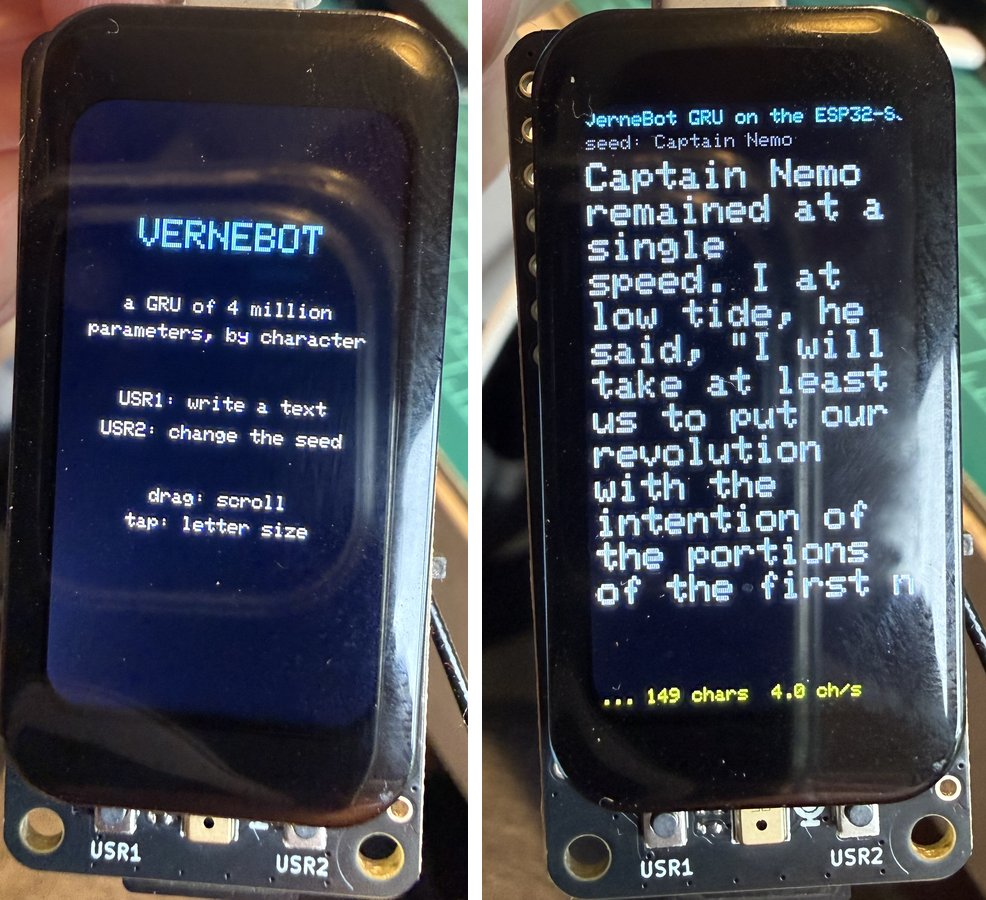
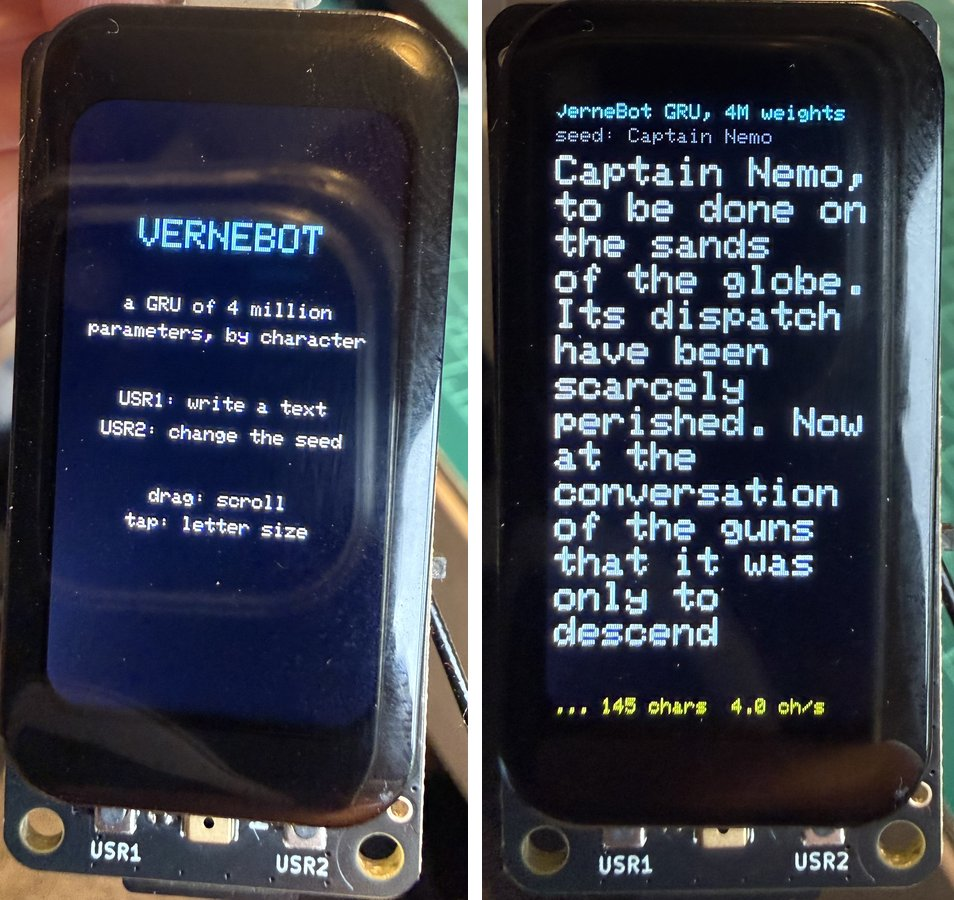
Add two diagrams for the VerneBot GRU and a sharper photo; move the title of the screen away from the rounded corner

diff --git a/part3_slm/README.md b/part3_slm/README.md
@@ -1081,7 +1081,17 @@ void loop() {
 
 The GRU is the easier of the two to run: its memory is one vector of 1,024 numbers, it can write text of any length, and each character costs the same. The sketch reads the real, trained weights from the card and writes text.
 
+![The VerneBot GRU: a character goes through the embedding table, the GRU layer, and the dense layer; below, the GRU cell enlarged, with its two gates and its candidate, and where the 4,095,867 weights are](../images/verne_gru_model_diagram.png)
+
+*The model on one page. A character becomes 256 numbers, the GRU layer mixes them with its state (1,024 numbers) to make a new state, and the dense layer turns the new state into one score for each of the 123 characters. The recurrent weights, which carry the state from one step to the next, hold three quarters of all the weights.*
+
 **The weights file.** `tools/verne_gru.py export` reads the project's float16 export (`rnn.bin` and `manifest.json`) and writes `verne_rnn_int8.bin`, 4,234,520 bytes: a header, the 123 characters of the vocabulary, the embedding and the biases as 32-bit floats, and the three matrices (the input weights of the three gates, the recurrent weights of the three gates, and the dense layer) as 8-bit integers with **one scale per row**. The file is not in this repository. Put it in the folder `/slm` of the card, next to the story files.
+
+**How the text is written.** The seed goes through the network one character at a time, from a zero state, and the last scores are those of the first new character. Then the loop begins: choose a character from the scores, show it, and feed it back in.
+
+![How the board writes a text with the GRU: the seed is turned into numbers and read once, then a loop of one step, a choice of the next character, and showing it, with the new character fed back in](../images/verne_gru_generation_diagram.png)
+
+*The loop that writes a text. The only thing that carries the past is the state of the GRU. There is no cache that grows with the text, unlike a Transformer, so the cost and the memory of each character are the same at the beginning and at the end.*
 
 **What we checked:**
 
@@ -1090,13 +1100,13 @@ The GRU is the easier of the two to run: its memory is one vector of 1,024 numbe
 - **The board matches the reference.** Greedy writing of the first 64 characters, on four seeds ("THE FLYING SUBMARINE", "Captain Nemo", "The balloon rose", and "It was a dark night"), gave **the same 64 characters on the board and in numpy with 8-bit weights, 64 of 64 in every case**. The command `t` prints the eight most likely characters after a seed; after "THE FLYING SUBMARINE" they are the same as in the reference.
 - **Speed.** 4.61 characters per second in greedy writing, the same as the 4.62 of the test with random weights. With the screen being redrawn while it writes, the screen showed 4.0. After loading, 3.88 MB of PSRAM are free.
 
-![The VerneBot screens: the start screen, and a text being written from the seed "Captain Nemo", 149 characters at 4.0 characters per second](../images/verne_rnn_screens.jpg)
+![The VerneBot screens: the start screen, and a text being written from the seed "Captain Nemo", 145 characters at 4.0 characters per second](../images/verne_rnn_screens.jpg)
 
-*Left: the start screen. Right: a text being written (the title of this screen was shortened afterward, because it was cut at the edge).* A text written by the board from the seed "Captain Nemo", as it appeared on the screen:
+*Left: the start screen. Right: a text being written.* A text written by the board from the seed "Captain Nemo", as it appeared on the screen:
 
-> Captain Nemo remained at a single speed. I at low tide, he said, "I will take at least us to put our revolution with the intention of the portions of the first n
+> Captain Nemo, to be done on the sands of the globe. Its dispatch have been scarcely perished. Now at the conversation of the guns that it was only to descend
 
-It is made of words and phrases of the novels, and the sentences are fine one at a time, but they do not follow from each other. That is what a model with four million parameters that reads one character at a time does. At 4 to 5 characters per second, a paragraph of 500 characters takes about two minutes, and the letters appear one by one on the screen.
+It is made of words and phrases of the novels, and it reads like English, but the sentences do not follow from each other. That is what a model with four million parameters that reads one character at a time does. At 4 to 5 characters per second, a paragraph of 500 characters takes about two minutes, and the letters appear one by one on the screen.
 
 **What was not done.** The Transformer was measured with random weights (test 08) but was not ported with its trained weights. It would need its own forward pass (the parameter counts say that it uses LayerNorm and learned positions; the other details must be read from the project's code), and the same check against the reference.
 
@@ -1360,7 +1370,7 @@ static void drawStory() {
   canvas.fillScreen(TFT_BLACK);
   canvas.setTextSize(1);
   canvas.setTextColor(TFT_CYAN, TFT_BLACK);
-  canvas.setCursor(4, 4);
+  canvas.setCursor(10, 4);   // a little to the right: the rounded corner of the screen hides the first letter
   canvas.print("VerneBot GRU, 4M weights");
   canvas.setTextColor(TFT_LIGHTGREY, TFT_BLACK);
   char hdr[48];
